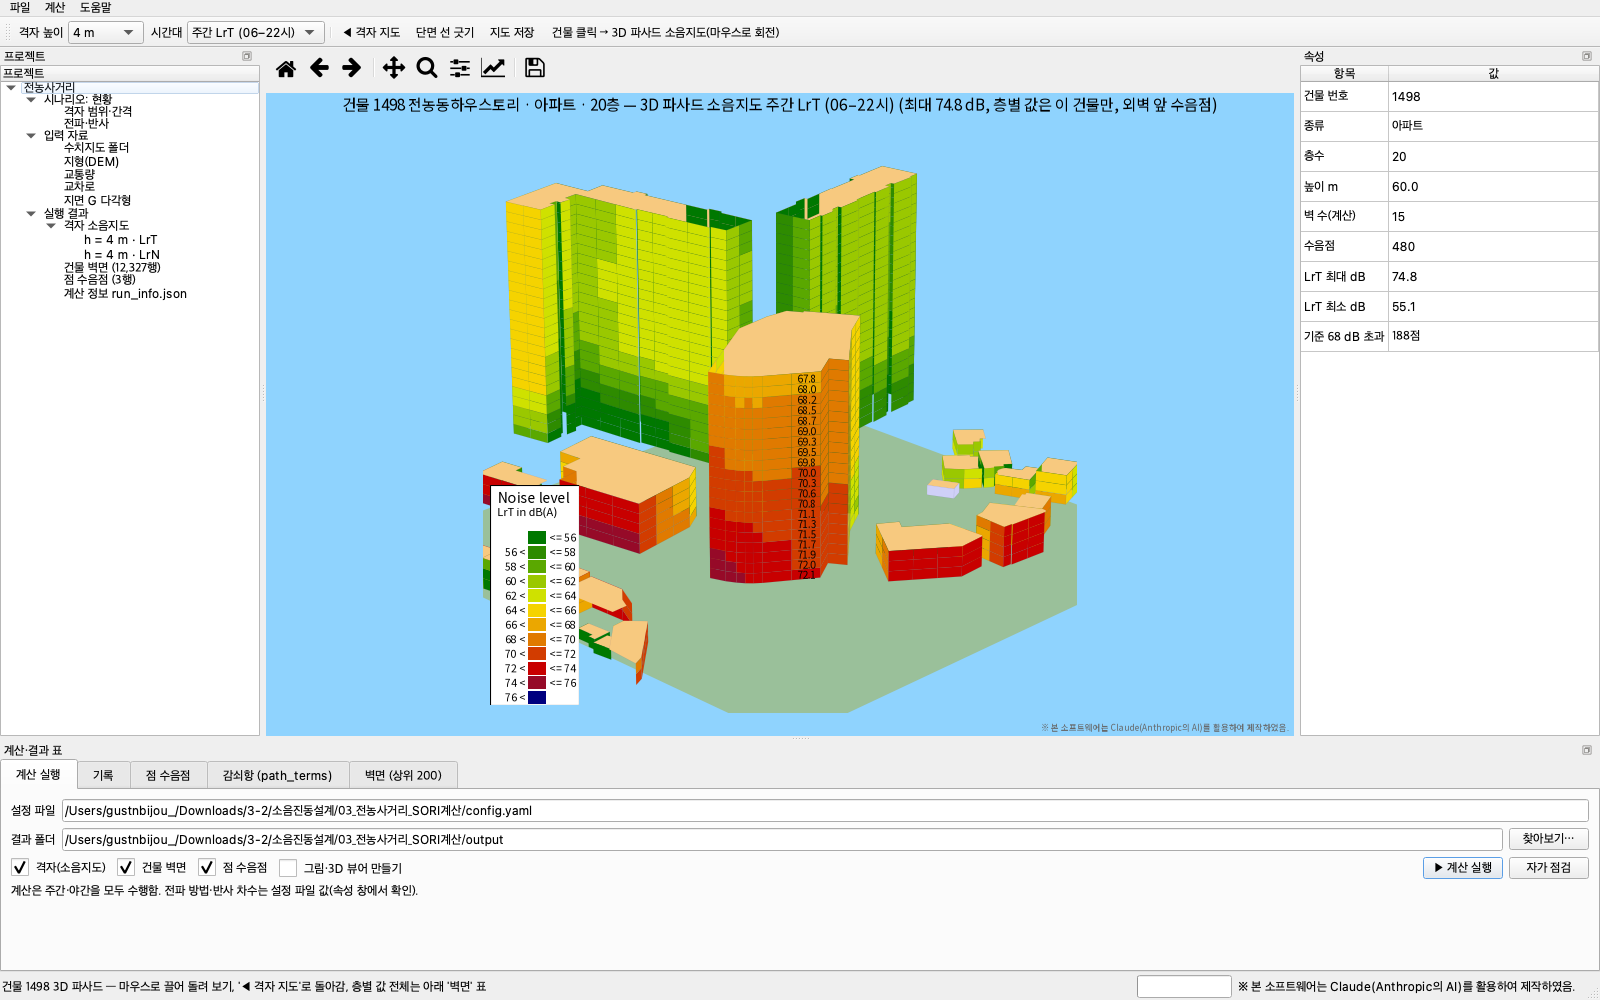
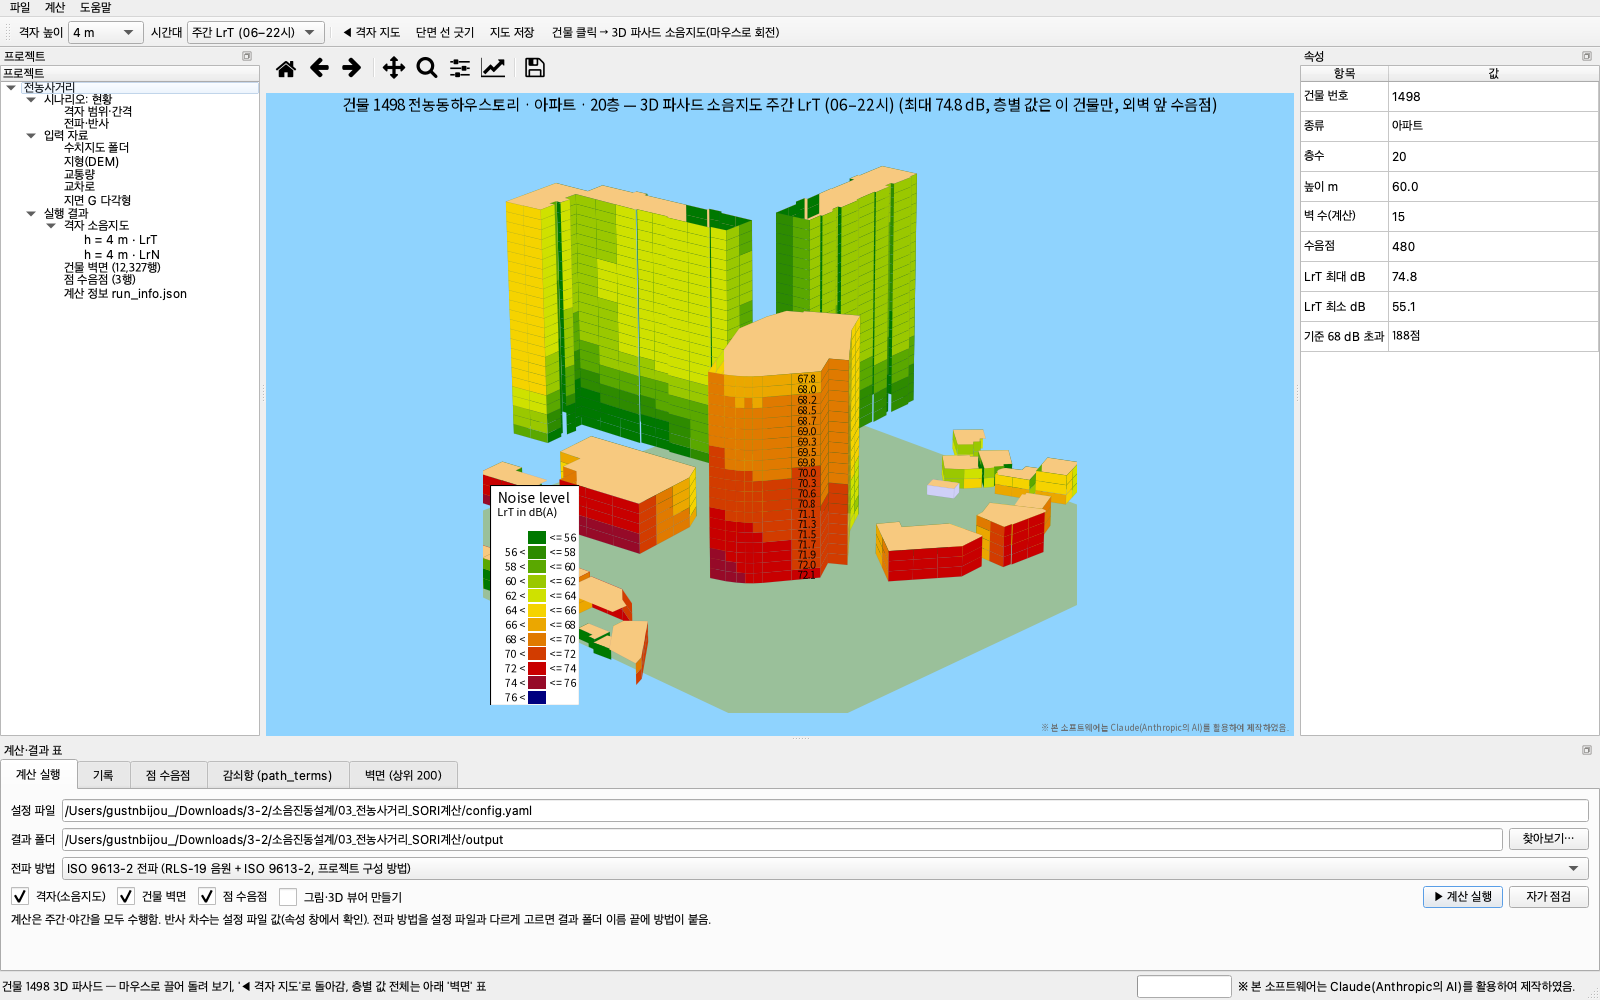
화면: 계산 실행 탭에서 전파 방법(ISO 9613-2 / RLS-19) 선택
- sori_qt.py: '전파 방법' 칸(처음엔 설정 파일 값). 설정과 다른 방법이면 결과 폴더를 output_<방법> 으로
  바꿔 그 결과를 엶(한 폴더에 방법이 섞이지 않게). 결과 폴더를 열면 run_info.json 의 방법으로 칸을 맞춤
- sori_gui.run_job(method=): 설정 파일은 그대로, config_used.yaml 사본과 run_conditions.json 에 방법·변경 여부 기록.
  명령 모드 --run … --method rls19
- 계산 엔진(sori/) 변경 없음
- 시험 1개 추가: pytest 237 통과·1 xfailed. 다시 빌드한 SORI.app --selfcheck 통과(5.0e-11 dB),
  --run --method rls19 결과 grid·facade 모두 rls19, codesign 검증 통과, --snapshot 으로 화면 확인
- README 0.1·5절, User's Manual 4.3절(참조 번호 정정), Technical Manual 5.1절, 앱 개발노트, 화면 그림 갱신

Changed region(s): [[0.0, 0.837, 0.4375, 0.93], [0.875, 0.837, 1.0, 0.899]]

diff --git a/sori_qt.py b/sori_qt.py
@@ -37,6 +37,8 @@ log = logging.getLogger("sori")
 ROLE = Qt.UserRole
 KEYS = {"LrT": "주간 LrT (06–22시)", "LrN": "야간 LrN (22–06시)"}
 TARGETS = {"grid": "격자(소음지도)", "facade": "건물 벽면", "points": "점 수음점"}
+METHODS = {"iso9613_2": "ISO 9613-2 전파 (RLS-19 음원 + ISO 9613-2, 프로젝트 구성 방법)",
+           "rls19": "RLS-19 전파 (RLS-19 3.5·3.6 원문)"}
 
 
 # ================================================================ 표 모델(pandas DataFrame → QTableView)
@@ -123,7 +125,8 @@ class Worker(QtCore.QThread):
                 def prog(label, done, total, eta):
                     self.b.prog.emit(done / max(total, 1),
                                      f"{label} 계산 {done:,}/{total:,} 지점 · 남은 시간 약 {eta / 60:.1f}분")
-                r = G.run_job(self.kw["cfg"], self.kw["out"], self.kw["which"], self.kw["plots"], progress=prog)
+                r = G.run_job(self.kw["cfg"], self.kw["out"], self.kw["which"], self.kw["plots"], progress=prog,
+                              method=self.kw.get("method"))
                 self.b.done.emit("run", r)
             else:
                 rp = default_output_dir() / "selfcheck_report.json"
@@ -463,10 +466,19 @@ class MainWindow(QtWidgets.QMainWindow):
         self.btn_check.clicked.connect(self.start_check)
         row.addWidget(self.btn_run)
         row.addWidget(self.btn_check)
-        f.addLayout(row, 2, 0, 1, 4)
-        f.addWidget(QtWidgets.QLabel("계산은 주간·야간을 모두 수행함. 전파 방법·반사 차수는 설정 파일 값(속성 창에서 확인)."),
-                    3, 0, 1, 4)
-        f.setRowStretch(4, 1)
+        f.addLayout(row, 3, 0, 1, 4)
+        # 전파 방법: 처음에는 설정 파일 값. 바꾸면 결과 폴더도 방법별로 나눔(한 폴더에 방법이 섞이지 않게)
+        self.cb_method = QtWidgets.QComboBox()
+        for k, v in METHODS.items():
+            self.cb_method.addItem(v, k)
+        self.cb_method.setToolTip("설정 파일의 propagation_method 대신 이 방법으로 계산(설정 파일은 바꾸지 않음)")
+        self.cb_method.currentIndexChanged.connect(self._on_method)
+        f.addWidget(QtWidgets.QLabel("전파 방법"), 2, 0)
+        f.addWidget(self.cb_method, 2, 1, 1, 3)
+        f.addWidget(QtWidgets.QLabel("계산은 주간·야간을 모두 수행함. 반사 차수는 설정 파일 값(속성 창에서 확인). "
+                                     "전파 방법을 설정 파일과 다르게 고르면 결과 폴더 이름 끝에 방법이 붙음."),
+                    4, 0, 1, 4)
+        f.setRowStretch(5, 1)
         f.setColumnStretch(1, 1)
         return w
 
@@ -505,7 +517,10 @@ class MainWindow(QtWidgets.QMainWindow):
             log.error("설정 파일 오류: %s", e)
             return self._err(f"설정 파일을 읽을 수 없습니다.\n{e}")
         self.cfg_path, self.cfg = path, cfg
-        out = Path(out) if out else path.parent / "output"
+        self.method0 = cfg.get("propagation_method") or "iso9613_2"     # 설정 파일의 전파 방법
+        self._base_out = path.parent / "output"
+        self._set_method(self.method0)
+        out = Path(out) if out else self._base_out
         self.ed_cfg.setText(str(path))
         self.ed_out.setText(str(out))
         G.save_settings(last_config=path, last_out=out.resolve())   # 설정과 결과 폴더를 짝으로 기억
@@ -542,6 +557,10 @@ class MainWindow(QtWidgets.QMainWindow):
             self._err(f"이 폴더에서 SORI 결과를 찾지 못했습니다.\n{out}")
         self.R = R
         self.view, self.view_bid = "grid", None
+        ri = R.get("run_info") or {}
+        m = set((ri.get("outputs") or {}).values()) or {ri.get("propagation_method")}
+        if self.cfg is not None and len(m) == 1 and next(iter(m)) in METHODS:   # 연 결과의 방법으로 맞춤
+            self._set_method(next(iter(m)))
         self.act_last_sec.setEnabled("section" in R)
         if self.cfg is None and (out / "config_used.yaml").exists():
             log.info("결과 폴더만 열었음 — 설정은 config_used.yaml 을 속성에 표시(입력 경로는 원래 설정 폴더 기준)")
@@ -561,6 +580,30 @@ class MainWindow(QtWidgets.QMainWindow):
         self._show_props(self._summary_props())
         if R:
             log.info("결과 폴더: %s (%s)", out, ", ".join(k for k in R if k in ("grid", "facade", "points", "terms")))
+
+    # ------------------------------------------------------------ 전파 방법
+    def _set_method(self, m):
+        """선택 칸과 메모리의 설정(self.cfg)을 전파 방법 m 으로. 결과 폴더는 바꾸지 않음"""
+        self.cb_method.blockSignals(True)
+        self.cb_method.setCurrentIndex(max(0, self.cb_method.findData(m)))
+        self.cb_method.blockSignals(False)
+        if self.cfg is not None:
+            self.cfg["propagation_method"] = m
+
+    def method_out(self, m):
+        """방법별 결과 폴더: 설정 파일의 방법이면 설정 옆 output, 다르면 output_<방법>"""
+        base = self._base_out
+        return base if m == self.method0 else base.with_name(f"{base.name}_{m}")
+
+    def _on_method(self, _i):
+        m = self.cb_method.currentData()
+        if self.cfg is None:
+            return
+        self.cfg["propagation_method"] = m
+        out = self.method_out(m)
+        self.ed_out.setText(str(out))
+        log.info("전파 방법 %s → 결과 폴더 %s%s", m, out, "" if m == self.method0 else " (설정 파일과 다른 방법)")
+        self.open_results(out, quiet=True)
 
     # ------------------------------------------------------------ 트리·속성
     def _fill_tree(self):
@@ -903,7 +946,8 @@ class MainWindow(QtWidgets.QMainWindow):
         G.save_settings(last_config=self.cfg_path, last_out=Path(out).resolve())
         self.tabs.setCurrentIndex(1)
         self._launch(Worker(self.bridge, "run", cfg=str(self.cfg_path), out=out, which=which,
-                            plots=self.chk_plots.isChecked()), "계산 중… (창을 닫지 마세요)")
+                            plots=self.chk_plots.isChecked(), method=self.cb_method.currentData()),
+                     "계산 중… (창을 닫지 마세요)")
         self._pending_out = out
 
     def start_check(self):

diff --git a/sori_gui.py b/sori_gui.py
@@ -65,8 +65,10 @@ def save_settings(**kv):
 
 
 # ================================================================ 계산 작업(화면과 무관)
-def run_job(cfg_path, out_dir, which=("grid", "facade", "points"), do_plots=True, period="LrT", progress=None):
-    """설정 파일로 build → run → (그림) 실행. 결과·사용 설정·계산 조건은 out_dir 에 저장"""
+def run_job(cfg_path, out_dir, which=("grid", "facade", "points"), do_plots=True, period="LrT", progress=None,
+            method=None):
+    """설정 파일로 build → run → (그림) 실행. 결과·사용 설정·계산 조건은 out_dir 에 저장.
+    method(iso9613_2 | rls19)를 주면 설정 파일의 propagation_method 대신 씀(설정 파일은 그대로, 사본에 기록)"""
     from sori import config as C, build, run
     cfg_path = Path(cfg_path).resolve()
     out = Path(out_dir).resolve()
@@ -74,6 +76,13 @@ def run_job(cfg_path, out_dir, which=("grid", "facade", "points"), do_plots=True
     cfg = C.load(cfg_path)
     cfg["project"]["output_dir"] = str(out)
     shutil.copy(cfg_path, out / "config_used.yaml")
+    m0 = cfg.get("propagation_method") or "iso9613_2"
+    if method and method != m0:
+        from sori.propagation import get_model
+        cfg["propagation_method"] = method
+        get_model(cfg)                                  # 잘못된 이름이면 여기서 오류
+        _set_method_in_copy(out / "config_used.yaml", method, m0)
+        log.info("전파 방법: %s (설정 파일 값 %s 대신 화면에서 고름)", method, m0)
     cond = {
         "software": f"SORI v{__version__}",
         "notice": AI_NOTICE,
@@ -84,6 +93,8 @@ def run_job(cfg_path, out_dir, which=("grid", "facade", "points"), do_plots=True
         "targets": list(which),
         "plots": bool(do_plots),
         "summary_period": period,
+        "propagation_method": cfg.get("propagation_method") or "iso9613_2",
+        "propagation_method_override": bool(method and method != m0),
         "app": {"frozen": is_frozen(), "python": platform.python_version(),
                 "os": platform.platform(), "machine": platform.machine()},
         "status": "running",
@@ -115,6 +126,17 @@ def run_job(cfg_path, out_dir, which=("grid", "facade", "points"), do_plots=True
         raise
     finally:
         cpath.write_text(json.dumps(cond, ensure_ascii=False, indent=2), encoding="utf-8")
+
+
+def _set_method_in_copy(path, method, original):
+    """config_used.yaml 사본의 propagation_method 를 바꿈(그 사본만으로 같은 계산을 재현하도록)"""
+    import re
+    t = path.read_text(encoding="utf-8")
+    line = f"propagation_method: {method}    # 앱에서 고름(원래 설정 파일 값 {original})"
+    t, n = re.subn(r"^propagation_method\s*:.*$", line, t, count=1, flags=re.M)
+    if not n:
+        t = t.rstrip("\n") + "\n\n" + line + "\n"
+    path.write_text(t, encoding="utf-8")
 
 
 def summarize(out, key):
@@ -411,12 +433,13 @@ def main(argv=None):
         ap.add_argument("config")
         ap.add_argument("--out", required=True)
         ap.add_argument("--no-plots", action="store_true")
+        ap.add_argument("--method", choices=["iso9613_2", "rls19"], help="설정 파일 대신 이 전파 방법으로")
         a = ap.parse_args(argv[1:])
         out = Path(a.out)
         out.mkdir(parents=True, exist_ok=True)
         logging.basicConfig(level=logging.INFO, filename=str(out / "sori_run.log"), encoding="utf-8",
                             format="%(asctime)s %(levelname)s %(message)s")
-        run_job(a.config, out, do_plots=not a.no_plots)
+        run_job(a.config, out, do_plots=not a.no_plots, method=a.method)
         return 0
     use_tk = "--tk" in argv or os.environ.get("SORI_GUI") == "tk"
     argv = [a for a in argv if a != "--tk"]

diff --git a/tests/test_gui_qt.py b/tests/test_gui_qt.py
@@ -122,3 +122,39 @@ def test_remembered_output_must_match_config(tmp_path):
     (mine / "run_conditions.json").write_text(json.dumps({"config_path": str(cfg)}), encoding="utf-8")
     assert Q._out_for(cfg, str(mine)) == str(mine)
     assert Q._out_for(cfg, str(cfg.parent / "output")) == str(cfg.parent / "output")   # 아직 계산 전
+
+
+def test_method_select_runs_and_separates_folders(tmp_path):
+    """계산 실행 탭의 전파 방법 선택: 설정과 다른 방법이면 결과 폴더 output_<방법>, 계산은 그 방법으로,
+    설정 파일은 그대로이고 config_used.yaml·run_conditions.json 에 기록. 결과를 다시 열면 선택 칸이 결과 방법으로"""
+    import json
+    import shutil
+    from PySide6 import QtWidgets
+    import reference_case as RC
+    import sori_gui as G
+    import sori_qt as Q
+    from sori import config as C
+    work = tmp_path / "case"
+    shutil.copytree(RC.INPUT, work)
+    src = (work / "config.yaml").read_text(encoding="utf-8")
+    app = QtWidgets.QApplication.instance() or QtWidgets.QApplication([])
+    w = Q.MainWindow()
+    w.open_config(work / "config.yaml")
+    assert w.cb_method.currentData() == "iso9613_2" and Path(w.ed_out.text()) == work / "output"
+    w.cb_method.setCurrentIndex(w.cb_method.findData("rls19"))
+    out = Path(w.ed_out.text())
+    assert out == work / "output_rls19" and w.cfg["propagation_method"] == "rls19"
+    G.run_job(work / "config.yaml", out, ("grid",), do_plots=False, method=w.cb_method.currentData())
+    ri = json.loads((out / "run_info.json").read_text(encoding="utf-8"))
+    assert ri["outputs"]["grid"] == "rls19"
+    rc = json.loads((out / "run_conditions.json").read_text(encoding="utf-8"))
+    assert rc["propagation_method"] == "rls19" and rc["propagation_method_override"]
+    assert C.load(out / "config_used.yaml")["propagation_method"] == "rls19"
+    assert (work / "config.yaml").read_text(encoding="utf-8") == src                    # 설정 파일은 그대로
+    w.cb_method.setCurrentIndex(w.cb_method.findData("iso9613_2"))                     # 설정 파일 방법 → output
+    assert Path(w.ed_out.text()) == work / "output" and "grid" not in w.R
+    w.open_results(out)                                                                 # 결과 방법으로 맞춤
+    assert w.cb_method.currentData() == "rls19" and w.cfg["propagation_method"] == "rls19"
+    assert w.map.hq is not None                                                         # 보고서 지도(방법 일치)
+    w.close()
+    app.processEvents()

diff --git a/docs/manual/SORI_Technical_Manual.tex b/docs/manual/SORI_Technical_Manual.tex
@@ -161,6 +161,7 @@ Lkw2: $g<-4$ 이면 $\frac{g+4}{-8}\cdot\frac{v}{10}$, $g>2$ 이면 $\frac{g-2}{
 \item \textbf{메타데이터}: \f{run\_info.json} 에 \f{propagation\_method}, \f{method\_label}, \f{equations}, \f{representative\_frequency\_hz}, \f{reflection\_loss}, \f{reflection\_order}, \f{not\_implemented} 등. GeoTIFF 태그 \f{PROPAGATION\_METHOD}.
 \item \textbf{혼용 방지}: 같은 결과 폴더에 다른 방법의 결과가 있으면 \f{run} 중단. 지도·3D 뷰어는 \f{run\_info.json} 의 방법이 하나이고 설정과 같을 때만 만든다.
 \item \textbf{분리 확인}: 분리 전후 기준 사례 CSV 바이트 동일, 전농사거리 기준선 SHA-256 동일.
+\item \textbf{앱에서 고르기}(2026-11-02): \f{sori\_gui.run\_job(..., method=)} 가 불러온 설정의 \f{propagation\_method} 만 바꿔 계산한다(계산 경로는 설정 파일 값과 같음). 설정 파일은 그대로 두고 \f{config\_used.yaml} 사본의 해당 줄을 바꾸며 \f{run\_conditions.json} 에 \f{propagation\_method\_override} 를 남긴다. 화면은 설정과 다른 방법이면 결과 폴더를 \f{output\_<방법>} 으로 나눠 혼용 방지 오류를 피한다.
 \end{itemize}
 
 \subsection{공통 기하(\f{geometry.py})}

diff --git a/README.md b/README.md
@@ -57,6 +57,7 @@ Python 설치 없이 쓰는 데스크톱 앱입니다. 준비된 설정 파일(`
 - **격자 소음지도**: 보고서용 고품질 지도(`HQ_grid_*.png`)와 같은 그림입니다 — 5 dB 등음선 채움, 간선도로 노면·건물·신호교차로·도로명, 방위표·축척, 범례·계산 조건·주의 문구. 위 도구 줄에서 격자 높이·시간대(주간 LrT / 야간 LrN)를 고르고, 확대(돋보기)·이동 도구로 자세히 봅니다. 격자점을 클릭하면 오른쪽 속성 창에 그 점의 값이 나옵니다. 설정 파일 없이 결과 폴더만 열었을 때는 간단한 지도로 표시됩니다.
 - **3D 파사드 소음지도**: 지도에서 **건물을 클릭**하면 그 건물을 중심으로 한 3D 파사드 소음지도가 나옵니다(그림 파일 `facade_3d_*.png` 와 같은 모양, 2 dB 등급). 주변 건물도 벽면 결과가 있으면 층별 색으로 칠하고, 층별 값 글자는 클릭한 건물에만 붙입니다. 마우스로 끌어 돌려 볼 수 있고, 클릭한 건물의 층별 값 전체는 아래 **벽면** 표에 나옵니다. 벽면 계산 반경 밖 건물은 상태 줄에 "벽면 계산 결과 없음"으로 표시됩니다. **◀ 격자 지도** 로 돌아갑니다.
 - **단면(수직) 소음지도**: **단면 선 긋기** 를 누르고 격자 지도에서 시작점 A, 끝점 B 를 차례로 클릭하면 그 선을 따라 거리 × 표고 단면의 수음점을 계산해 보여 줍니다(전농사거리 180 m 단면, 계산점 약 3,200개에 약 25초). 지형과 건물 단면을 함께 그리고, 건물 안(지붕 아래)·지면 아래는 계산하지 않습니다. 계산은 격자와 같은 함수·반사 차수를 쓰며, 같은 위치의 지면 위 4 m 값이 격자 결과와 최대 0.007 dB 안에서 같음을 시험으로 확인했습니다. 결과는 결과 폴더의 `section_result.csv`, `section_info.json`, 규칙 이름 사본(`…_주야_section.csv`)에 저장되고, 결과 폴더를 다시 열면 파일 ▸ **마지막 단면 보기** 로 볼 수 있습니다. 음원(노면 위 0.5 m) 바로 위의 낮은 점은 값이 매우 크게 나올 수 있습니다(근거리).
+- **전파 방법 고르기**(2026-11-02): **계산 실행** 탭의 **전파 방법** 칸에서 `ISO 9613-2 전파`(RLS-19 음원 + ISO 9613-2) 또는 `RLS-19 전파`(3.5·3.6 원문)를 고릅니다. 처음에는 설정 파일의 `propagation_method` 값이고, 설정 파일 자체는 바꾸지 않습니다. 설정과 다른 방법을 고르면 결과 폴더가 `output_rls19`(또는 `output_iso9613_2`)로 바뀌어 두 방법의 결과가 섞이지 않고, 그 폴더에 결과가 있으면 지도에 바로 보입니다. 계산하면 `config_used.yaml` 사본과 `run_conditions.json`(`propagation_method`, `propagation_method_override`)에 쓴 방법이 기록됩니다. 결과 폴더를 열면 칸이 그 결과의 방법으로 맞춰집니다. 화면 없이: `sori_gui.py --run config.yaml --out 폴더 --method rls19`.
 - **지도 저장**: 도구 줄 **지도 저장…**(또는 파일 ▸ 지도 저장, ⌘S / Ctrl+S)으로 지금 보이는 지도를 PNG(200 dpi)·PDF 로 저장합니다. 기본 이름은 결과 파일명 규칙을 따릅니다(예: `전농사거리_현황-ISO_주간_grid_h4m.png`, `전농사거리_현황-ISO_주간_facade_3D_건물1498.png`, `전농사거리_현황-ISO_주간_section.png`).
 
 컴파일 캐시는 사용자 폴더(macOS `~/Library/Application Support/SORI`, Windows `%LOCALAPPDATA%\SORI`)에 저장됩니다.
@@ -155,7 +156,7 @@ python -m sori all -c config.yaml                            # 모델 구축 →
 
 | 항목 | 기본값 | 의미 |
 |---|---|---|
-| `propagation_method` | iso9613_2 | 전파 계산 방법. `iso9613_2` = ISO 9613-2(현행), `rls19` = RLS-19 3.5·3.6. 음원(L_W′, 음원선, D_K, D_refl)과 기하는 공통. 한 출력 폴더에는 한 방법의 결과만 둠(다른 방법 결과가 있으면 실행 중단 — `project.output_dir` 를 바꿀 것). 방법·식 번호·미구현 항목은 `run_info.json` |
+| `propagation_method` | iso9613_2 | 전파 계산 방법. `iso9613_2` = ISO 9613-2(현행), `rls19` = RLS-19 3.5·3.6. 음원(L_W′, 음원선, D_K, D_refl)과 기하는 공통. 한 출력 폴더에는 한 방법의 결과만 둠(다른 방법 결과가 있으면 실행 중단 — `project.output_dir` 를 바꿀 것). 방법·식 번호·미구현 항목은 `run_info.json`. 앱에서는 계산 실행 탭 **전파 방법** 칸으로 설정 파일을 고치지 않고 바꿀 수 있음(0.1절) |
 | `propagation.reflection.own_facade` | last | 수음점이 놓인 외벽의 반사 제외 범위. `last` = 마지막 반사만(RLS-19 1장 Immissionsort 주석, TEST-20 K2), `all` = 모든 반사 순서(2026-10-29 이전 동작) |
 | `propagation.terms_csv` | false | 점 수음점의 감쇠항별 중간값 `path_terms.csv` 출력(직접음·1차 반사) |
 | `propagation.bands_hz` / `spectrum_dBA` | [500] / [0] | (iso9613_2) 500 Hz 단일대역(ISO 9613-2 1절 비고 1). 옥타브 스펙트럼을 넣으면 8대역 계산. rls19 는 A 가중 단일값이라 여러 대역 지정 불가 |
